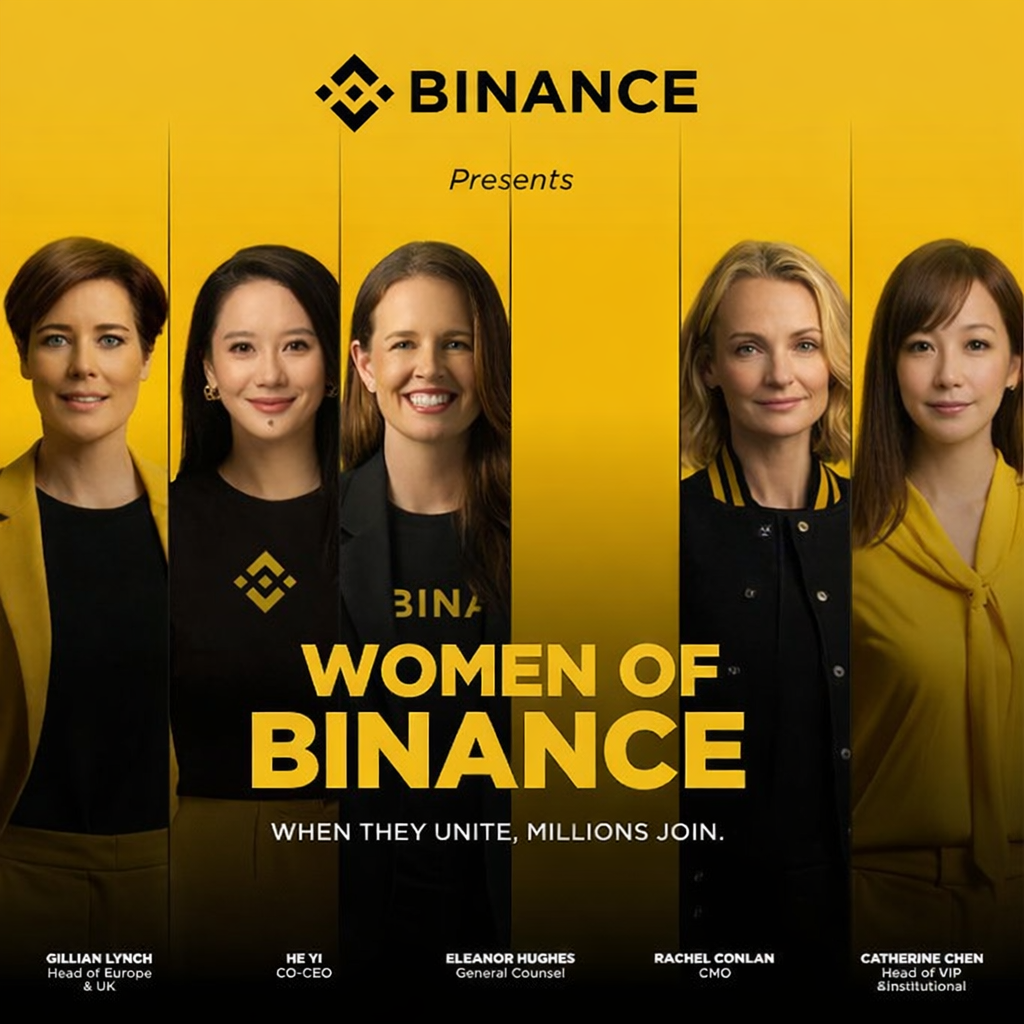
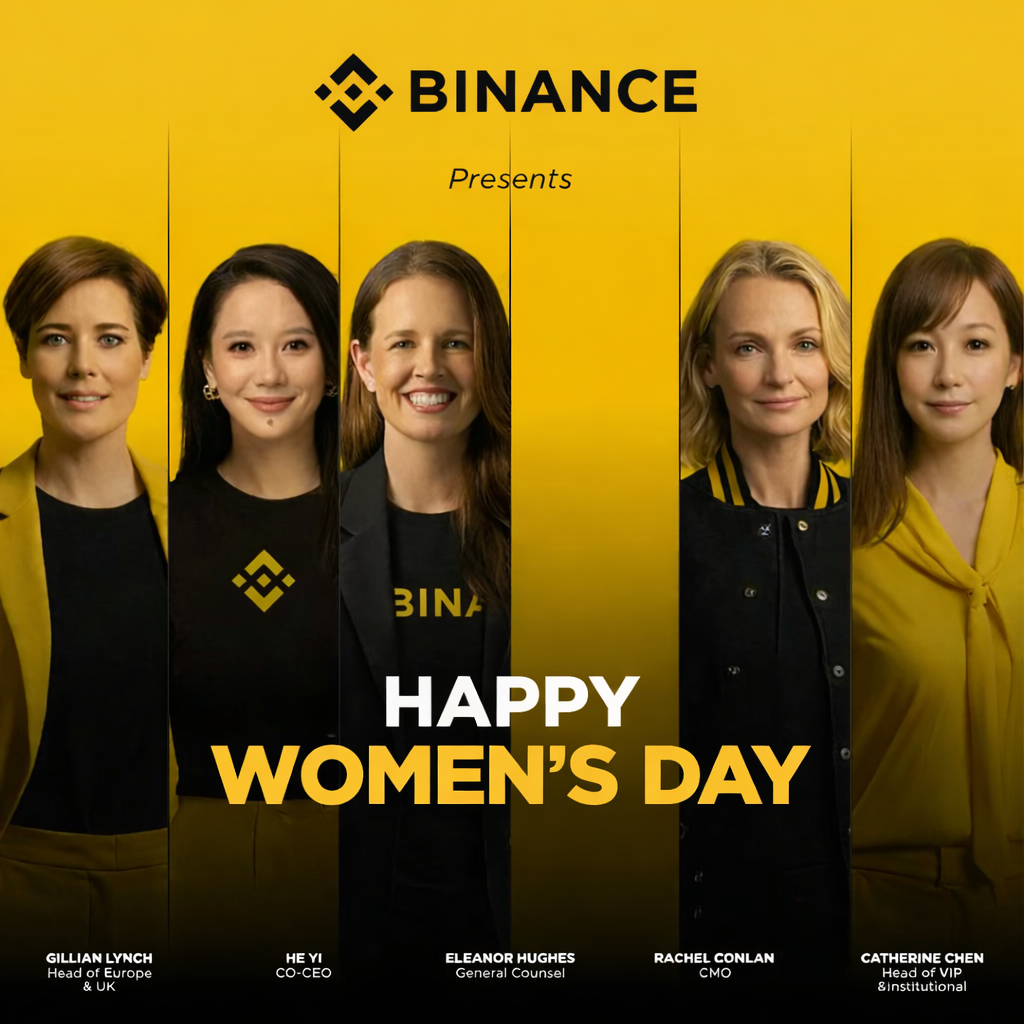
update

diff --git a/index.html b/index.html
@@ -2,7 +2,7 @@
 <html lang="en-US">
   <head>
     <meta charset="UTF-8" />
-    <title>WOMEN OF BINANCE</title>
+    <title>Happy Women's Day</title>
     <meta name="robots" content="max-image-preview:large" />
     <style>
       img:is([sizes="auto" i], [sizes^="auto," i]) {
@@ -12,13 +12,13 @@
     <link
       rel="alternate"
       type="application/rss+xml"
-      title="WOMEN OF BINANCE &raquo; Feed"
+      title="Happy Women's Day &raquo; Feed"
       href="https://queenyihe.xyz/feed/"
     />
     <link
       rel="alternate"
       type="application/rss+xml"
-      title="WOMEN OF BINANCE &raquo; Comments Feed"
+      title="Happy Women's Day &raquo; Comments Feed"
       href="https://queenyihe.xyz/comments/feed/"
     />
     <script>
@@ -841,12 +841,12 @@
                   </a>
                 </li>
                 <li class="elementor-icon-list-item elementor-inline-item">
-                  <a href="https://t.me/womenofbinance" target="_blank">
+                  <a href="https://t.me/happywomens_day" target="_blank">
                     <span class="elementor-icon-list-text">TELEGRAM</span>
                   </a>
                 </li>
                 <li class="elementor-icon-list-item elementor-inline-item">
-                  <a href="https://x.com/womenofbinance" target="_blank">
+                  <a href="https://x.com/happywomens_day" target="_blank">
                     <span class="elementor-icon-list-text">X</span>
                   </a>
                 </li>
@@ -881,7 +881,7 @@
               >
                 <div class="elementor-widget-container">
                   <h2 class="elementor-heading-title elementor-size-default">
-                    WOMEN OF BINANCE
+                    Happy Women's Day
                   </h2>
                 </div>
               </div>
@@ -893,7 +893,7 @@
               >
                 <div class="elementor-widget-container">
                   <h2 class="elementor-heading-title elementor-size-default">
-                    Women everywhere are building the future of Binance.
+                    International Women's Day
                   </h2>
                 </div>
               </div>
@@ -1101,7 +1101,7 @@
           >
             <div class="elementor-widget-container">
               <h2 class="elementor-heading-title elementor-size-default">
-                WOMEN OF BINANCE
+                Happy Women's Day
               </h2>
             </div>
           </div>
